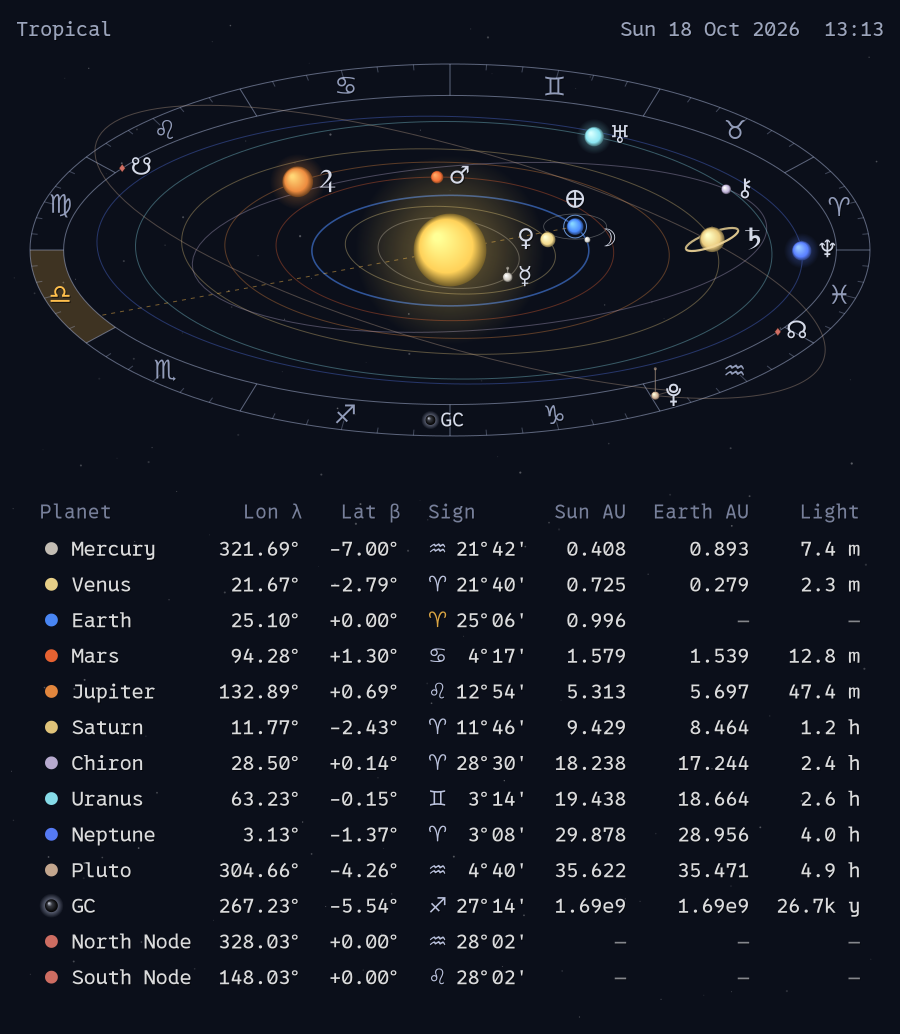
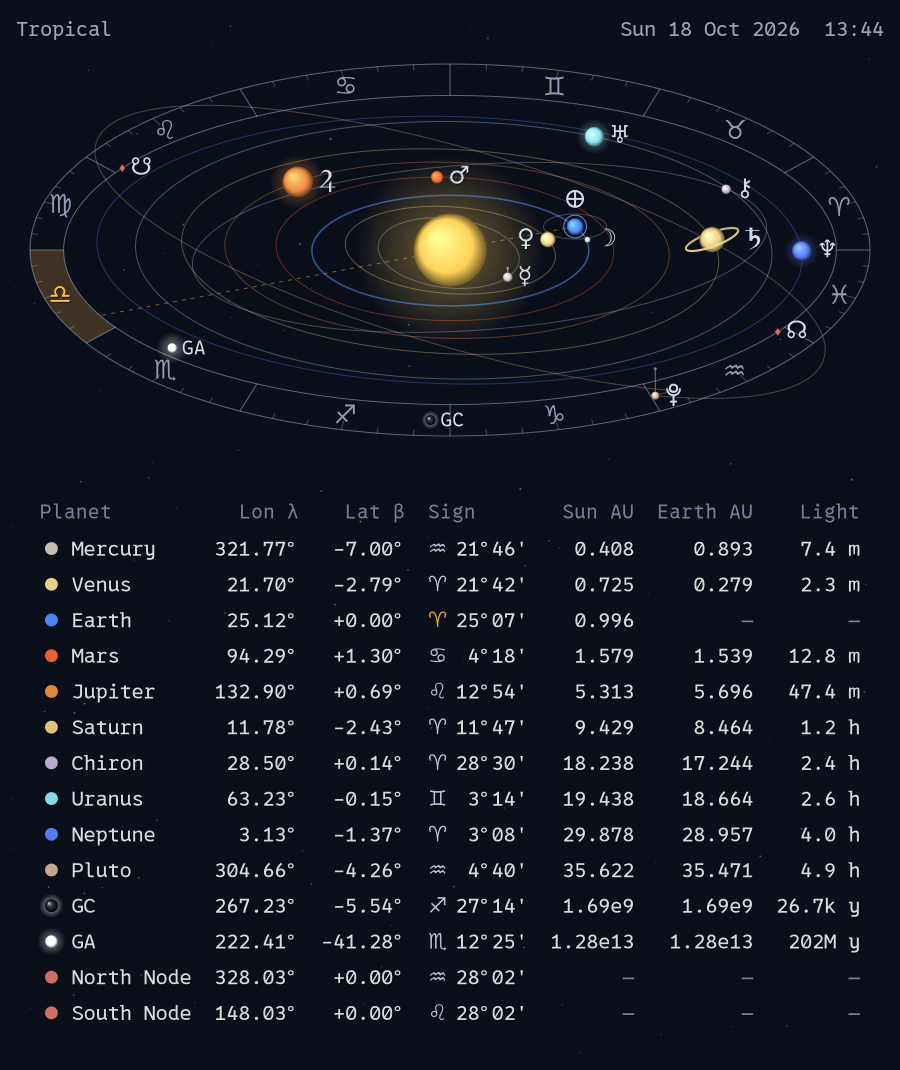
Orrery 1.4.0: Great Attractor, show/hide switches
Add the Great Attractor (galactic l = 307, b = +9, about 62 Mpc) as a white
glowing ball on the zodiac band, with its own table row. New switches show or
hide the galactic center, the Great Attractor, the Moon's nodes and the zodiac
label; the widget height follows the visible table rows. Markers and labels
keep clear of the sign glyphs.

diff --git a/orrery/render.py b/orrery/render.py
@@ -4,6 +4,7 @@ Noctalia desktop widget (desktop.luau).
 
     render.py <out.png> [scale] [font] [table font] [font size] [zodiac]
               [zodiac label 0|1] [zodiac label size] [order heliocentric|geocentric]
+              [show GC 0|1] [show GA 0|1] [show nodes 0|1]
 
 zodiac is "tropical" (default) or "fagan-bradley" (sidereal signs).
 
@@ -48,9 +49,9 @@ GLYPHS = "DejaVu Sans"          # zodiac signs: many fonts lack U+2648..2653
 TEXT_K = 1.0                    # font size setting / 14, the design size of the table text
 
 
-def canvas_height(k):
+def canvas_height(k, rows):
     """Must match desktop.luau, which sizes the widget from it."""
-    return math.floor(TABLE_Y + 395 * k)
+    return math.floor(TABLE_Y + (70 + 25 * rows) * k)
 
 #            name        swe id         mean AU  colour (r,g,b)          size  period (days)
 PLANETS = [
@@ -70,6 +71,12 @@ GC_LON, GC_LAT = 266.8517, -5.5361
 GC_AU = 8178 * 206264.806
 GC_LY = 8178 * 3.26156
 GC_SIZE = 3.5                   # drawn like Chiron
+# Great Attractor: galactic l = 307, b = +9 (Lynden-Bell et al. 1988) as ecliptic
+# J2000, at cz ~ 4350 km/s, about 62 Mpc. Drawn on the band like the GC.
+GA_LON, GA_LAT = 222.0406, -41.2807
+GA_AU = 62e6 * 206264.806
+GA_LY = 62e6 * 3.26156
+GA_COL = (1.0, 1.0, 1.0)        # a white, glowing ball
 
 # Picture labels: astrological symbols, with the font that has them (GLYPHS
 # unless named); GC keeps its name. Saturn and Jupiter are drawn outlines (drawn_symbol).
@@ -87,9 +94,9 @@ NODE_COL = (0.85, 0.45, 0.40)
 # centre) first, then the Moon's nodes in place of the Moon, then the rest.
 ORDERS = {
     "heliocentric": ["Mercury", "Venus", "Earth", "Mars", "Jupiter", "Saturn", "Chiron",
-                     "Uranus", "Neptune", "Pluto", "GC", "North Node", "South Node"],
+                     "Uranus", "Neptune", "Pluto", "GC", "GA", "North Node", "South Node"],
     "geocentric":   ["Earth", "North Node", "South Node", "Mercury", "Venus", "Mars", "Jupiter",
-                     "Saturn", "Chiron", "Uranus", "Neptune", "Pluto", "GC"],
+                     "Saturn", "Chiron", "Uranus", "Neptune", "Pluto", "GC", "GA"],
 }
 
 # The Moon: drawn on a small circle around Earth (its real orbit would be
@@ -375,10 +382,10 @@ def sector_path(cr, lon0, lon1, steps=24):
     cr.close_path()
 
 
-def gc_lon(jd):
-    """J2000 ecliptic longitude of the galactic center precessed to the date."""
+def precess_lon(lon, jd):
+    """J2000 ecliptic longitude of a fixed object precessed to the date."""
     t = (jd - 2451545.0) / 36525
-    return (GC_LON + (5028.796195 * t + 1.1054348 * t * t) / 3600) % 360
+    return (lon + (5028.796195 * t + 1.1054348 * t * t) / 3600) % 360
 
 
 def fmt_light(au):
@@ -401,12 +408,21 @@ def main():
     zodiac_px = float(sys.argv[8]) if len(sys.argv) > 8 and sys.argv[8].strip() else 20.0
     order = ORDERS["geocentric" if len(sys.argv) > 9 and sys.argv[9].strip().lower().startswith("geo")
                    else "heliocentric"]
+    flag = lambda i: (sys.argv[i] if len(sys.argv) > i else "1").strip() != "0"
+    hidden = set()
+    if not flag(10):
+        hidden.add("GC")
+    if not flag(11):
+        hidden.add("GA")
+    if not flag(12):
+        hidden.update(NODES)
+    order = [name for name in order if name not in hidden]
     now = float(os.environ.get("ORRERY_TIME") or time.time())
     tm = time.gmtime(now)
     jd = swe.julday(tm.tm_year, tm.tm_mon, tm.tm_mday,
                     tm.tm_hour + tm.tm_min / 60 + tm.tm_sec / 3600)
 
-    H = canvas_height(TEXT_K)
+    H = canvas_height(TEXT_K, len(order))
     surf = cairo.ImageSurface(cairo.FORMAT_ARGB32, math.ceil(W * scale), math.ceil(H * scale))
     cr = cairo.Context(surf)
     cr.scale(scale, scale)
@@ -422,7 +438,8 @@ def main():
     pos = {}
     for name, pid, _, _, _, _ in PLANETS:
         pos[name] = helio(jd, pid)
-    pos["GC"] = (gc_lon(jd), GC_LAT, GC_AU)
+    pos["GC"] = (precess_lon(GC_LON, jd), GC_LAT, GC_AU)
+    pos["GA"] = (precess_lon(GA_LON, jd), GA_LAT, GA_AU)
     nn = swe.calc_ut(jd, swe.TRUE_NODE, swe.FLG_MOSEPH)[0][0]
     pos["North Node"], pos["South Node"] = (nn, 0.0, None), ((nn + 180) % 360, 0.0, None)
     earth_lon = pos["Earth"][0]
@@ -444,6 +461,7 @@ def main():
         edge()
         cr.set_source_rgba(0.75, 0.80, 0.95, 0.45)
         cr.stroke()
+    glyph_boxes = []                                # sign glyphs, kept clear of labels
     for k in range(12):
         x0, y0 = band(k * 30 + ayan, 0)
         x1, y1 = band(k * 30 + ayan, 1)
@@ -465,6 +483,8 @@ def main():
         ext = cr.text_extents(SIGNS[k])                 # centre the glyph vertically on the band
         text(cr, SIGNS[k], gx, gy - ext.y_bearing - ext.height / 2, ZOD_SIZE, col,
              1.0 if k == hi else 0.7, GLYPHS, align="c", k=1)
+        glyph_boxes.append((gx - ext.width / 2 - 2, gx + ext.width / 2 + 2,
+                            gy - ext.height / 2 - 2, gy + ext.height / 2 + 2))
 
     # ---- orbits (true shape and inclination, same projection as the bodies) ----
     for name, pid, au, col, _, period in PLANETS:
@@ -514,11 +534,22 @@ def main():
         bodies.append((depth, name, x, y, bx, by, col, size * BODY_X))
     # The galactic center sits on the zodiac band (it is far beyond any scale);
     # its latitude is in the table.
-    gx, gy = band(pos["GC"][0], 0.5)
-    gdepth = project(pos["GC"][0], BAND_IN)[2]
-    bodies.append((gdepth, "GC", gx, gy, gx, gy, (0.0, 0.0, 0.0), GC_SIZE * BODY_X))
+    # On a sign glyph they move toward the band's inner edge (just inside it if need be).
+    for name, col in (("GC", (0.0, 0.0, 0.0)), ("GA", GA_COL)):
+        if name in hidden:
+            continue
+        lon = pos[name][0]
+        rad = GC_SIZE * BODY_X * 1.4
+        for t in (0.5, 0.15, 0.0, -0.15, -0.3):
+            gx, gy = band(lon, t)
+            if not any(l - rad < gx < r + rad and tp - rad < gy < bt + rad
+                       for l, r, tp, bt in glyph_boxes):
+                break
+        bodies.append((project(lon, BAND_IN)[2], name, gx, gy, gx, gy, col, GC_SIZE * BODY_X))
     bodies.append((0.0, "Sun", CX, CY, CX, CY, (1.0, 0.82, 0.35), 26 * BODY_X))
     for name in NODES:
+        if name in hidden:
+            continue
         nx, ny, ndepth = project(pos[name][0], BAND_IN)
         bodies.append((ndepth, name, nx, ny, nx, ny, NODE_COL, 3.2))
     # Moon: geocentric direction, on a circle around Earth (see MOON_R).
@@ -574,6 +605,8 @@ def main():
             cr.set_source_rgba(0.95, 0.85, 0.60, 0.8); cr.set_line_width(2.2); cr.stroke()
         if name == "GC":
             black_sphere(cr, x, y, size)
+        elif name == "GA":
+            sphere(cr, x, y, size, col, glow=2.2)
         else:
             sphere(cr, x, y, size, col, glow=0.8 if name in ("Jupiter", "Uranus", "Neptune") else 0)
         if name == "Saturn":                        # ring in front of the globe
@@ -591,7 +624,7 @@ def main():
     line = SYM_SIZE * TEXT_K * 1.1
     placed = [(x - r, x + r, y - size, y + size)         # (left, right, top, bottom)
               for _, name, x, y, _, _, _, size in bodies if name != "Sun"
-              for r in [size * 2.1 if name == "Saturn" else size]]
+              for r in [size * 2.1 if name == "Saturn" else size]] + glyph_boxes
 
     def spots(bx, by, r, w):
         """Label boxes (left, baseline) around a body, nearest first."""
@@ -649,7 +682,8 @@ def main():
 
     gold, pale = (1.0, 0.75, 0.30), (0.85, 0.88, 1.0)
     rows = []
-    for name, pid, au, col, _, _ in (PLANETS + [("GC", None, GC_AU, (0.0, 0.0, 0.0), GC_SIZE, 0)]
+    for name, pid, au, col, _, _ in (PLANETS + [("GC", None, GC_AU, (0.0, 0.0, 0.0), GC_SIZE, 0),
+                                                ("GA", None, GA_AU, GA_COL, GC_SIZE, 0)]
                                      + [(n, None, None, NODE_COL, 0, 0) for n in NODES]):
         lon, lat, r = pos[name]
         slon = (lon - ayan) % 360
@@ -661,12 +695,14 @@ def main():
             dist_s, light_s = "—", "—"
         elif name == "GC":
             dist_s, light_s = f"{GC_AU:.2e}".replace("e+0", "e"), f"{GC_LY / 1000:.1f}k y"
+        elif name == "GA":
+            dist_s, light_s = f"{GA_AU:.2e}".replace("e+", "e"), f"{GA_LY / 1e6:.0f}M y"
         else:
             dist = geo_distance(jd, pid)
             dist_s, light_s = f"{dist:.3f}", fmt_light(dist)
         rows.append((name, col, [name, f"{lon:.2f}°", f"{lat:+.2f}°", SIGNS[sign] + f"{d:2d}°{m:02d}'",
-                                 dist_s if name == "GC" or r is None else f"{r:.3f}", dist_s, light_s]))
-    rows.sort(key=lambda row: order.index(row[0]))
+                                 dist_s if name in ("GC", "GA") or r is None else f"{r:.3f}", dist_s, light_s]))
+    rows = sorted((row for row in rows if row[0] in order), key=lambda row: order.index(row[0]))
     heads = ["Planet", "Lon λ", "Lat β", "Sign", "Sun AU", "Earth AU", "Light"]
     right = [False, True, True, False, True, True, True]
 
@@ -713,6 +749,8 @@ def main():
         x0, _ = xs[0]
         if name == "GC":
             black_sphere(cr, x0 + 8 * k, rowy - 5 * k, 4.5 * k)
+        elif name == "GA":
+            sphere(cr, x0 + 8 * k, rowy - 5 * k, 4.5 * k, GA_COL, glow=1.2)
         else:
             cr.set_source_rgba(*col, 0.95)
             cr.arc(x0 + 8 * k, rowy - 5 * k, 4.5 * k, 0, 2 * math.pi)

diff --git a/orrery/README.md b/orrery/README.md
@@ -3,8 +3,8 @@
 ![Orrery](preview.png)
 
 A Noctalia desktop widget showing the solar system as it is right now:
-the Sun, Mercury to Pluto, the Moon, Chiron, the Moon's nodes (☊ ☋) and the
-galactic center (GC),
+the Sun, Mercury to Pluto, the Moon, Chiron, the Moon's nodes (☊ ☋), the
+galactic center (GC) and the Great Attractor (GA),
 seen obliquely from the north, with the zodiac on the outer ring. The sign the
 Sun is in, as seen from Earth, is highlighted, with a dashed sight line from
 Earth through the Sun. The planets are labelled with their astrological
@@ -25,7 +25,9 @@ line with a dot marks how far a planet is above or below the ecliptic plane
 (see the Lat β column). The Moon is shown on a small schematic circle around
 Earth (it has no table row). The galactic center is drawn on the zodiac band
 (it is far beyond any scale); its position is the J2000 value of Sgr A*
-precessed to the date, at 8.18 kpc. The Moon's north and south nodes (true
+precessed to the date, at 8.18 kpc. The Great Attractor (GA, a white glowing ball) is drawn
+the same way, at galactic l = 307°, b = +9° (Lynden-Bell et al. 1988), about
+62 Mpc (200 million light years) away. The Moon's north and south nodes (true
 node, geocentric) are small diamonds on the inner edge of the zodiac band at
 their longitude, and have their own table rows.
 
@@ -85,8 +87,11 @@ Then open the desktop widget editor and add **Orrery** to a monitor.
 | Table font | 0xProto | the table (a monospaced font looks best)     |
 | Font size  | 20      | 8–26; the widget grows taller with it        |
 | Zodiac     | Tropical | or Sidereal (Fagan/Bradley): moves the signs on the ring and in the Sign column; Lon λ stays tropical |
-| Show zodiac label | on | "Tropical" or "Sidereal: Fagan/Bradley" in the top left corner |
-| Zodiac font size  | 20 | size of that label in px; equal to Font size it matches the date |
+| Show: galactic center | on | the GC on the band and in the table |
+| Show: Great Attractor | on | the GA on the band and in the table |
+| Show: Moon's nodes    | on | ☊ ☋ on the band and in the table |
+| Show: zodiac label    | on | "Tropical" or "Sidereal: Fagan/Bradley" in the top left corner |
+| Zodiac label size     | 20 | only shown while the label is on; equal to Font size it matches the date |
 | Table order       | Heliocentric | or Geocentric: Earth, then the Moon's nodes, then Mercury, Venus, Mars… |
 
 If the font is not installed, cairo falls back to a default font.

diff --git a/README.md b/README.md
@@ -4,7 +4,7 @@ Astronomy and astrology desktop widgets for [Noctalia](https://github.com/noctal
 
 | Widget | What it shows |
 |--------|---------------|
-| [Orrery](orrery/) | The solar system right now: planets, Moon, Chiron, the Moon's nodes and the galactic center over a tropical or sidereal (Fagan/Bradley) zodiac, with a table of positions. |
+| [Orrery](orrery/) | The solar system right now: planets, Moon, Chiron, the Moon's nodes, the galactic center and the Great Attractor over a tropical or sidereal (Fagan/Bradley) zodiac, with a table of positions. |
 | [Ephemeris](ephemeris/) | Sidereal positions (Fagan/Bradley and Lahiri) with retrograde and stationary planets, dignities, nakshatras (optionally in Sanskrit) and a short summary of the highlights. |
 
 <p>
